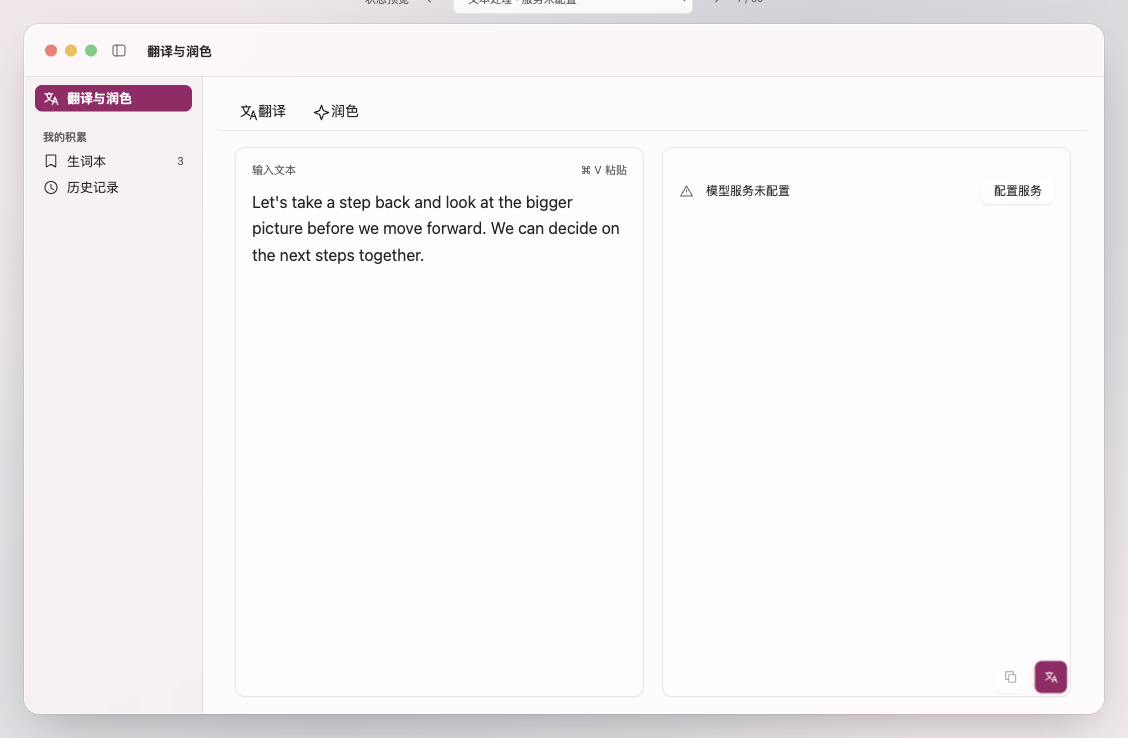
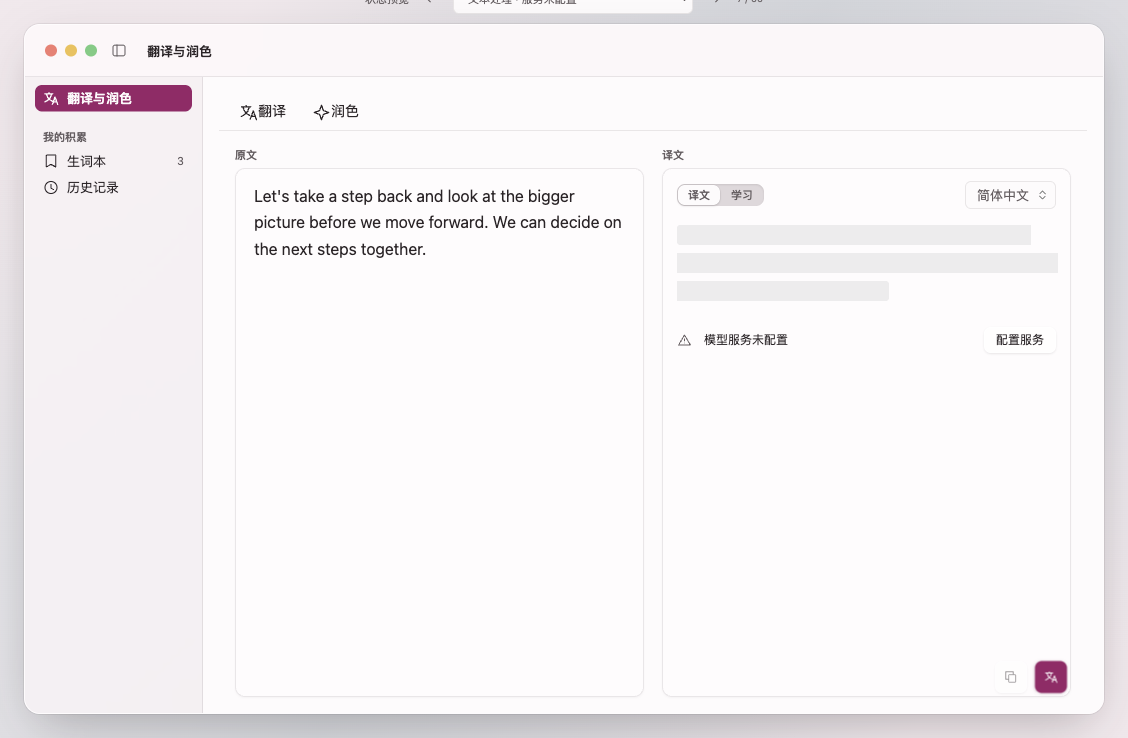
feat(page): simplify the group titles, move the target inside, switch result/learning in place
四条按反馈：

- 分组标题只留「原文」与「译文」／「润色结果」：上面已经有 tab，`自动识别`、语言名这些字都去掉。
- 目标语言从分组标题移进译文这一组的内部（分段控件那一行的右端）。
- 原文输入加了内边距，文本不再贴着分组边框。
- 学习表达不再另起一块，而是和结果共用译文这一组：组内一个分段控件在「译文／学习」之间切换
  （HIG 的 Segmented controls 正是拿「在一个窗口里显示与隐藏若干 pane」当例子）。切换原文或 tab
  时回到结果那一档。

设计图同步，规格与逐屏组件对照、T32 一并更新。

diff --git a/Owlet/Processing/TranslationView.swift b/Owlet/Processing/TranslationView.swift
@@ -191,6 +191,8 @@ private struct TranslationPane: View {
     @State private var learning = LearningModel()
     /// Measured content width, which decides side by side versus stacked.
     @State private var contentWidth: CGFloat = 0
+    /// Which of the result box's panes is showing; a new result starts on the result itself.
+    @State private var section: ResultSection = .result
     /// The pinned target language; an empty value means 自动.
     @AppStorage(SettingsStore.pinnedTargetKey) private var pinnedTarget = ""
     @AppStorage(SettingsStore.displayModeKey) private var displayMode =
@@ -206,8 +208,13 @@ private struct TranslationPane: View {
             }
             .padding(.horizontal, 24)
             .padding(.vertical, 20)
-            // The source text changed, so the old result and its learning items no longer apply.
-            .onChange(of: model.input) { _, _ in learning.reset() }
+            // The source text changed, so the old result and its learning items no longer apply, and
+            // the box goes back to showing the result.
+            .onChange(of: model.input) { _, _ in
+                learning.reset()
+                section = .result
+            }
+            .onChange(of: model.operation) { _, _ in section = .result }
             // A bottom *toolbar* does not exist on macOS (SwiftUI's `bottomBar` is iOS and Catalyst
             // only), so the two actions float over the content's trailing corner, the way Freeform
             // places its controls. Two separate glass icon buttons, not one merged cluster: each is its
@@ -281,15 +288,16 @@ private struct TranslationPane: View {
     }
 
     /// The source side: the editor fills the box, so the whole column is usable input rather than a
-    /// fixed strip with empty space under it. A short window keeps a floor so neither side collapses.
+    /// fixed strip with empty space under it. The title is just 原文 — the tab above already says which
+    /// operation this is.
     private var sourcePane: some View {
         GroupBox {
             TextEditor(text: $model.input)
                 .textEditorStyle(.plain)
                 .font(.system(size: 16))
                 .lineSpacing(7)
-                // Cancels NSTextView's line fragment padding so text aligns with the labels.
-                .padding(.horizontal, -5)
+                .padding(.horizontal, 6)
+                .padding(.vertical, 4)
                 .frame(maxWidth: .infinity, maxHeight: .infinity, alignment: .topLeading)
                 .overlay(alignment: .topLeading) {
                     if model.input.isEmpty {
@@ -298,61 +306,82 @@ private struct TranslationPane: View {
                             .foregroundStyle(.tertiary)
                             .allowsHitTesting(false)
                             .accessibilityHidden(true)
+                            .padding(.horizontal, 6)
+                            .padding(.vertical, 4)
                     }
                 }
                 .accessibilityLabel("原文")
         } label: {
-            LabelRow {
-                Text(showsResult ? "自动识别" : "输入文本")
-            } trailing: {
-                Text("原文")
-            }
+            Text("原文")
         }
         .frame(maxWidth: .infinity, maxHeight: .infinity, alignment: .top)
         .frame(minHeight: 180)
     }
 
-    /// The result side: translation or polish, then its 学习表达. It scrolls on its own so a long
-    /// result never pushes the source out of the window.
+    /// The result side. Its switch is a segmented control — the HIG's own example is a segmented
+    /// control that shows and hides panes of the same window — so 译文／润色 and 学习 share one box
+    /// instead of stacking, and the target language sits in the box with them.
     private var resultPane: some View {
         GroupBox {
-            ScrollView {
-                VStack(alignment: .leading, spacing: 12) {
-                    resultBody
-                    if result != nil { learningSection }
-                    status
+            VStack(alignment: .leading, spacing: 12) {
+                HStack(spacing: 10) {
+                    Picker("结果", selection: $section) {
+                        Text(resultTitle).tag(ResultSection.result)
+                        Text("学习").tag(ResultSection.learning)
+                    }
+                    .pickerStyle(.segmented)
+                    .labelsHidden()
+                    .fixedSize()
+                    Spacer(minLength: 0)
+                    if isBusy {
+                        HStack(spacing: 6) {
+                            ProgressView().controlSize(.mini)
+                            Text("\(model.operation.title)中")
+                        }
+                        .font(.system(size: 12))
+                        .foregroundStyle(.secondary)
+                    } else if model.operation == .translate {
+                        languagePicker
+                    } else {
+                        Text("保留原意")
+                            .font(.system(size: 11))
+                            .foregroundStyle(.secondary)
+                    }
                 }
-                .frame(maxWidth: .infinity, alignment: .topLeading)
-                // Room for the floating buttons, so the last line can still be read.
-                .padding(.bottom, 40)
+                ScrollView {
+                    VStack(alignment: .leading, spacing: 12) {
+                        if section == .learning {
+                            learningSection
+                        } else {
+                            resultBody
+                            status
+                        }
+                    }
+                    .frame(maxWidth: .infinity, alignment: .topLeading)
+                    // Room for the floating buttons, so the last line can still be read.
+                    .padding(.bottom, 40)
+                }
+                .scrollBounceBehavior(.basedOnSize)
             }
-            .scrollBounceBehavior(.basedOnSize)
             .frame(maxWidth: .infinity, maxHeight: .infinity, alignment: .topLeading)
         } label: {
-            LabelRow {
-                if isBusy {
-                    HStack(spacing: 6) {
-                        ProgressView().controlSize(.mini)
-                        Text("\(model.operation.title)中")
-                    }
-                } else if displayMode == .aligned {
-                    Text("逐句对照")
-                } else {
-                    Text(model.operation == .polish ? "润色结果" : "译文")
-                }
-            } trailing: {
-                // The target lives on the side it produces: it is a property of this result, not of
-                // the window. 自动 shows what this text resolves to.
-                if model.operation == .translate {
-                    languagePicker.disabled(isBusy)
-                } else {
-                    Text("保留原意")
-                }
-            }
+            Text(resultTitle)
         }
         .frame(maxWidth: .infinity, maxHeight: .infinity, alignment: .top)
         .frame(minHeight: 180)
     }
+
+    /// Which of the result box's two panes is showing.
+    private enum ResultSection: Hashable {
+        case result
+        case learning
+    }
+
+    private var resultTitle: String {
+        if displayMode == .aligned && section == .result { return "逐句对照" }
+        return model.operation == .polish ? "润色结果" : "译文"
+    }
+
     @ViewBuilder private var resultBody: some View {
         Group {
             if let result {

diff --git a/design/index.html b/design/index.html
@@ -108,12 +108,17 @@ select.popup{appearance:none;-webkit-appearance:none;height:28px;padding:0 26px 
 .tabview .tab{display:inline-flex;align-items:center;gap:6px;height:26px;padding:0 14px;font-size:12px;border:1px solid var(--line);border-bottom:0;border-radius:6px 6px 0 0;background:oklch(94% .01 350/.7);color:var(--muted)}
 .tabview .tab svg{width:13px;height:13px}
 .tabview .tab[aria-selected=true]{background:oklch(99% .004 350/.85);color:var(--ink);font-weight:600}
-.body.processing{padding:16px;overflow:hidden;display:flex;flex-direction:column;position:relative;gap:18px;border-top:1px solid var(--line);border-radius:0 0 0 0}
+.body.processing{padding:16px;overflow:hidden;display:flex;flex-direction:column;position:relative;gap:18px;border-top:1px solid var(--line)}
+.body.processing .source{padding:2px 4px}
 /* 两侧各是一个 GroupBox：靠背景区隔，不再画分割线。 */
-.body.processing>.pane{border:1px solid var(--line);border-radius:10px;background:oklch(99% .004 350/.7);padding:14px 16px;box-shadow:0 1px 2px oklch(30% .01 350/.04)}
+.body.processing>.groupwrap{flex:1 1 0;min-height:180px;display:flex;flex-direction:column;gap:6px}
+.grouplabel{font-size:11px;font-weight:600;color:var(--muted);margin:0}
+.body.processing>.groupwrap>.pane{border:1px solid var(--line);border-radius:10px;background:oklch(99% .004 350/.7);padding:12px 14px;box-shadow:0 1px 2px oklch(30% .01 350/.04);flex:1 1 0;min-height:0;overflow-y:auto}
+.result-head{margin-bottom:10px}
+.result-head .segmented{height:22px}
+.result-head .segmented button{height:20px;padding:0 10px;font-size:11px}
 .actionbar{position:absolute;right:20px;bottom:20px;z-index:5;display:flex;gap:8px}
 .actionbar .glass-btn.icon{width:32px;height:32px;padding:0;display:grid;place-items:center}
-.body.processing>.pane{flex:1 1 0;min-height:180px;overflow-y:auto;display:flex;flex-direction:column}
 .window:not(.window-narrow) .body.processing{flex-direction:row}
 .labelrow{display:flex;align-items:center;justify-content:space-between;gap:10px;font-size:11px;color:var(--muted);margin-bottom:12px}
 .labelrow .label{display:flex;align-items:center;gap:7px}
@@ -659,17 +664,17 @@ function setTargetMode(v){targetMode=v==='auto'?'auto':'pinned';if(v!=='auto')pr
 function currentOperation(){return operationOverride||cfg().operation||'translate'}
 function processingHTML(){
   const op=currentOperation(),busy=phase==='loading',done=phase==='result',failed=phase==='failure';
-  const source=`<section class="source-section"><div class="labelrow"><span class="label">${done||busy?'自动识别':'输入文本'}</span><span>${done||busy?'原文':'⌘ V 粘贴'}</span></div><textarea class="source" aria-label="原文" spellcheck="false" placeholder="输入或粘贴要处理的文本…" oninput="external=this.value">${cfg().empty?'':esc(inputText())}</textarea></section>`;
-  const label=busy?`<span class="pending-label"><span class="spin mini" aria-hidden="true"></span>${op==='polish'?'润色中':'翻译中'}</span>`:(op==='polish'?'润色结果':'译文');
-  const meta=op==='polish'?'保留原意':targetSelectHTML(busy);
   const result=done?esc(resultText()):`<span>${esc(inputText().slice(0,140))}</span>`;
-  const resultSection=(done||busy)?`<section class="result-section"><div class="labelrow"><span class="label">${label}</span><span>${meta}</span></div><div class="result ${done?'':'redacted'}">${result}</div><div class="reserved" aria-hidden="true"></div></section>`:'';
   const notice=phase==='missingConfig'?{message:'模型服务未配置',action:'配置服务'}
     :failed?{message:cfg().message||'网络错误：连接似乎已断开。',action:'服务设置'}:null;
   const status=notice?`<div class="status" role="alert">${icon('warn')}<span class="msg">${esc(notice.message)}</span><button class="glass-btn" onclick="openSettings('model')">${notice.action}</button></div>`:'';
-  // 动作搬到工具栏（HIG Toolbars）：控件一组，动作一组，全部是图标按钮。
   const learning=cfg().learning?learningBlockHTML(cfg().learning):'';
-  // 两侧各自滚动、平分可用高度（左右排时平分宽度），学习表达跟在结果下面。
+  // 分组标题只留「原文」「译文」：上面已经有 tab，多余的字都去掉。
+  const source=`<div class="groupwrap"><p class="grouplabel">原文</p><div class="pane"><textarea class="source" aria-label="原文" spellcheck="false" placeholder="输入或粘贴要处理的文本…" oninput="external=this.value">${cfg().empty?'':esc(inputText())}</textarea></div></div>`;
+  // 译文与学习放在同一个分组里，用分段控件切换；目标语言也在这个分组内。
+  const meta=op==='polish'?'保留原意':targetSelectHTML(busy);
+  const resultHeader=`<div class="labelrow result-head"><div class="segmented" role="group" aria-label="结果"><button role="radio" aria-checked="true">${op==='polish'?'润色结果':'译文'}</button><button role="radio" aria-checked="false">学习</button></div><span>${meta}</span></div>`;
+  const resultSection=`<div class="groupwrap"><p class="grouplabel">${op==='polish'?'润色结果':'译文'}</p><div class="pane">${resultHeader}<div class="result ${done?'':'redacted'}">${result}</div>${learning}${status}</div></div>`;
   // 动作浮在内容右下角：macOS 没有底部工具栏，用贴底的动作条充当。
   const actions=busy
     ?`<button class="glass-btn icon" aria-label="取消" title="取消">${icon('stop')}</button>`
@@ -678,7 +683,7 @@ function processingHTML(){
   const tabs=`<div class="tabview" role="tablist">`
    +`<button role="tab" aria-selected="${op==='translate'}" ${busy?'disabled':''} onclick="setOperation('translate')">${icon('translate')}翻译</button>`
    +`<button role="tab" aria-selected="${op==='polish'}" ${busy?'disabled':''} onclick="setOperation('polish')">${icon('spark')}润色</button></div>`;
-  return `<div class="tabview-wrap">${tabs}<div class="body processing" id="body"><div class="pane">${source}</div><div class="pane">${resultSection}${learning}${status}</div><div class="actionbar">${actions}</div></div></div>`;
+  return `<div class="tabview-wrap">${tabs}<div class="body processing" id="body">${source}${resultSection}<div class="actionbar">${actions}</div></div></div>`;
 }
 function bindingOf(key){if(shortcutDraft&&shortcutDraft.key===key)return shortcutDraft.label;return conflict&&key==='translate'?'⌃⌥T':null}
 function shortcutsHTML(){

diff --git a/docs/liquid-glass-components.md b/docs/liquid-glass-components.md
@@ -80,7 +80,7 @@
 
 | 截图 | 已落到设计里的系统组件 |
 | --- | --- |
-| `workspace*.png`（结果、空输入、已输入、处理中、润色结果、请求失败、服务未配置、侧栏收起） | 侧栏切换 · 内容区顶边的 `TabView`（`Tab(标题, systemImage:)`，四周留边距）· 每个 pane 里两侧各一个 `GroupBox`（靠背景区隔，不画分割线；译文一侧的分组标题上是目标语言 `Picker(.menu)`）· 内容右下角浮起的两颗独立玻璃图标按钮（`复制结果`、`翻译`／`润色`，处理中换成 `取消`；`.labelStyle(.iconOnly)` + `.help()`，不套 `GlassEffectContainer`，见 §2.2）· `TextEditor` · 结果区 `.redacted` 占位 · 行内 `StatusNote`；两侧同时可见并各自滚动（宽窗口左右平分宽度、窄窗口上下平分高度），学习表达跟在译文／润色下面；这一页没有底部操作栏 |
+| `workspace*.png`（结果、空输入、已输入、处理中、润色结果、请求失败、服务未配置、侧栏收起） | 侧栏切换 · 内容区顶边的 `TabView`（`Tab(标题, systemImage:)`，四周留边距）· 每个 pane 里两个 `GroupBox`（标题只写「原文」「译文」，靠背景区隔，不画分割线；译文那一组的内部用分段控件在结果与学习表达之间切换，目标语言 `Picker(.menu)` 也在组内）· 内容右下角浮起的两颗独立玻璃图标按钮（`复制结果`、`翻译`／`润色`，处理中换成 `取消`；`.labelStyle(.iconOnly)` + `.help()`，不套 `GlassEffectContainer`，见 §2.2）· `TextEditor` · 结果区 `.redacted` 占位 · 行内 `StatusNote`；两侧同时可见并各自滚动（宽窗口左右平分宽度、窄窗口上下平分高度），学习表达跟在译文／润色下面；这一页没有底部操作栏 |
 | `settings-shortcuts.png` / `settings-shortcuts-recording.png` / `settings-shortcuts-conflict.png` | 设置窗口的快捷键页：`Form` 的两个 `Section`（`全局` 录制器 / `面板内` 固定键）· 录制按钮（例外 2）· `清除` · 每个分组的 footer 承载说明与冲突提示 |
 | `settings-general.png` | 独立设置窗口：`Settings` scene 的标题栏 + `TabView` 标签页切换器（不可自定义、始终可见）· 每页 inset grouped `Form` 的多个 `Section`；通用页含「文本处理」分组（翻译显示方式）；工具栏一页为快捷键页 |
 | `settings-language-empty.png` / `settings-language-rows.png` | 语言页：「语言」分组（已选语言逐行 `LabeledContent` + 删除按钮，`添加语言` 才展示完整系统清单）+「目标语言」分组（兜底目标 `Picker(.menu)`、一行一源语言的映射、`添加映射`） |

diff --git a/spec/product.md b/spec/product.md
@@ -48,7 +48,7 @@
 - 翻译、润色、翻译并替换三个快捷键均唤起同一个采用 macOS Spotlight 视觉风格的紧凑浮动工具栏，并进入对应模式：无侧栏、无完整应用框架，按需展开结果与学习内容，Esc 收起。
 - 首次通过快捷键发起翻译与润色时，处理中仅显示单行紧凑条：整圈边框呼吸灯、选中文字摘要、加载状态；不显示终止按钮；完成后动画展开结果。减少动态效果开启时直接切换。
 - 工具栏左侧为 Owlet logo 与操作选择，右侧仅保留刷新、设置。主界面通过菜单栏图标或 Dock 图标打开，生词本与历史在主界面访问。
-- 完整窗口提供统一的“翻译与润色”页面，输入或粘贴后在页内选择翻译／润色，结果可复制。翻译与润色是同一页面内容区顶边 tab view 的两个 pane（各自带原文、结果与学习表达，互斥显示），不是两个导航项；左侧不提供“翻译并替换”，该动作保留独立选区快捷键。窗口工具栏不放这一页的控件；目标语言属于它产生的结果，显示在译文一侧的分组标题上（仅翻译适用）。
+- 完整窗口提供统一的“翻译与润色”页面，输入或粘贴后在页内选择翻译／润色，结果可复制。翻译与润色是同一页面内容区顶边 tab view 的两个 pane（各自带原文、结果与学习表达，互斥显示），不是两个导航项；左侧不提供“翻译并替换”，该动作保留独立选区快捷键。窗口工具栏不放这一页的控件；内容区里两个分组分别叫「原文」与「译文」／「润色结果」，译文这一组内部用分段控件在结果与学习表达之间切换，目标语言也在这一组内（仅翻译适用）。
 - 生词本与历史是主窗口的侧栏页面；设置是独立的设置窗口（App 菜单「设置…」或 ⌘, 打开），内部按标签页分组，侧栏不再提供设置入口。首版仍不实现复习。
 - 翻译并替换保持独立快捷键，不依赖先打开完整管理窗口。
 

diff --git a/tasks/todo.md b/tasks/todo.md
@@ -780,7 +780,7 @@
 - [x] 处理方式最后按 HIG Tab views 做成内容区顶边的 `TabView`（翻译／润色两个 pane，四周留边距），窗口工具栏不再放这一页的控件；目标语言在译文一侧的分组标题上，两个动作是右下角浮起的独立图标按钮。
 - [x] 两个动作先搬到工具栏，再按反馈改成内容右下角浮起的两颗独立玻璃图标按钮（`.overlay(alignment: .bottomTrailing)` + `.labelStyle(.iconOnly)` + `.help()`，滚动内容留出 40pt 底部内边距）；macOS 没有底部工具栏（`.bottomBar` 仅 iOS/Catalyst）。
 - [x] 页面改名为「翻译与润色」（侧栏、窗口标题）。
-- [x] 两侧始终存在（还没有结果时也在），各是一个 `GroupBox`（背景区隔，没有分割线）：宽窗口左右平分宽度，窄窗口上下平分高度，各带最小高度并各自滚动；原文输入撑满所在分组。
+- [x] 两侧始终存在（还没有结果时也在），各是一个 `GroupBox`（背景区隔，没有分割线）：宽窗口左右平分宽度，窄窗口上下平分高度，各带最小高度并各自滚动；原文输入撑满所在分组并留内边距。分组标题只写「原文」「译文」，译文那一组内部用分段控件（HIG：切换同一窗口内的视图）在结果与学习表达之间切换，目标语言也移进该组。
 - [x] 学习表达跟在译文／润色下面（属于结果，跟在整页下面不对）。
 - [x] 侧栏：第一项无分组标题，保留「我的积累」，去掉快捷键项。
 - [x] 快捷键成为设置的第五个标签页（权限、录制、清除、冲突提示照旧）。
